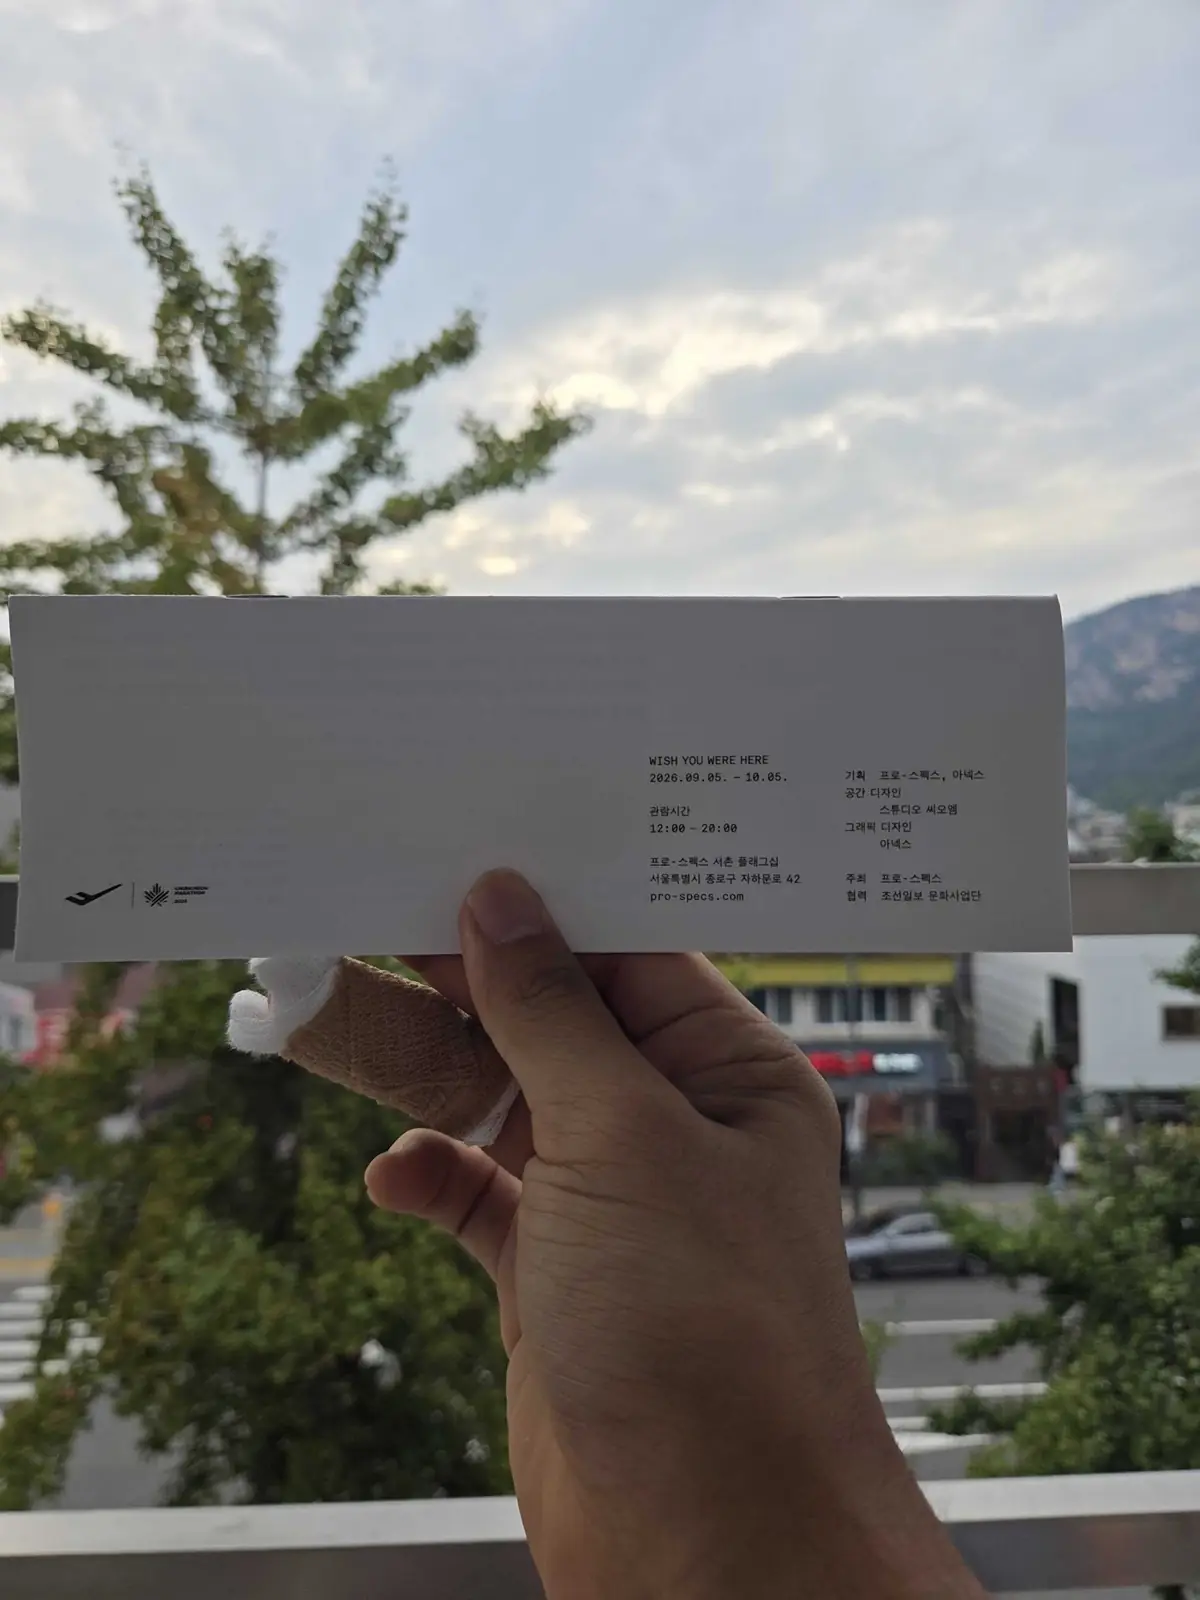
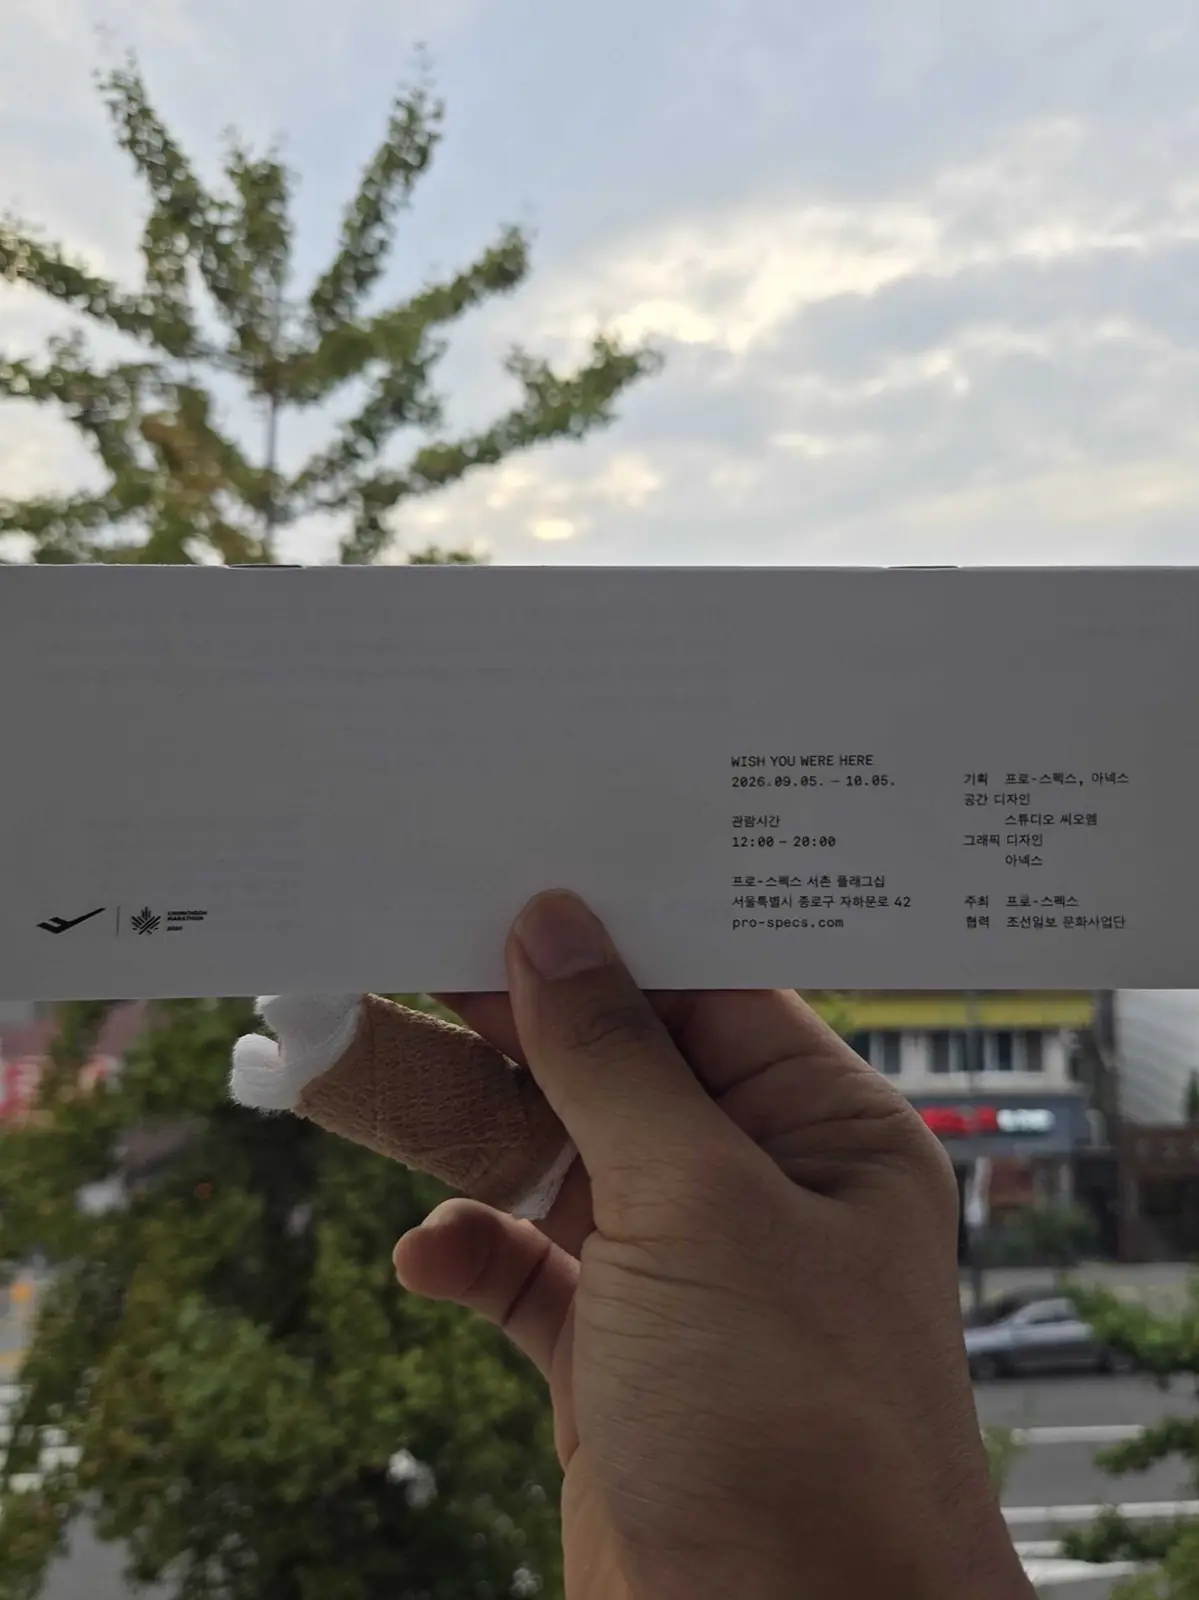
fix(prospecs-preview): 초대 섹션 사진에서 안내지가 가운데 오도록 화면용 사본 재크롭 [skip ci]
안내지 중심이 사진 중심보다 약 150px(원본 기준) 왼쪽이라 좌우가 어긋나 보였음.
원본은 두고 3:4를 유지한 채 양쪽이 같은 폭으로 넘어가게 다시 자름.

diff --git a/prospecs-seochon-preview/direction/DESIGN.md b/prospecs-seochon-preview/direction/DESIGN.md
@@ -233,3 +233,7 @@ Codex 리뷰의 "방문 전환이 늦고 약함(높음)"에 대응. 사용자가
 - 같은 디자이너 리뷰어에게 재채점을 받았다. 오독 정정과 2층 연속 스크린샷(60% 간격)을 함께 줬다. 결과: 전체 7.3 → 7.7, 2층 6.6 → 7.1, "2층이 약하다: 대체로 해결". 리뷰어가 스크린샷으로 직접 확인하고 모바일 크롭 회귀 지적을 기각했다. 남은 가장 큰 감점은 두 리뷰 공통으로 PLATE 04 사진이었다.
 - PLATE 04 결정: 두 리뷰의 크기 제안(220px / 340–380px)이 상반돼, 사진을 빼는 제3안을 사용자가 택했다. 명패 사진(1000023996)의 그림자 결함을 없애고, 명패 원문을 인용 도판으로 크게 보여준다(데스크톱 22–31px, 모바일 19px). 메타는 "KWON EUNJU · 전시장 명패 원문". 화면용 사본 `assets/display/1000023996.webp`는 삭제했다(원본은 planning/photos에 보관). 회전·크롭·필터 규칙(`.plate-card`, `.plate-person`)도 제거했다.
 - 남은 보류: 두 쉬어가는 문장의 모양 구분, PLATE 02 본문 보강, PLATE 01→02 간격 재확인, 보조 글자 대비, 문구 톤 반복.
+
+### 초대 섹션 사진(1000023999) 안내지 중심 맞춤
+- 사용자 피드백: 사진 속 안내지가 좌우 대칭이 안 맞는다. 원본에서 안내지는 가로 3,000px 중 약 24–2,670px에 있어 중심이 사진 중심보다 약 150px 왼쪽이었다.
+- 원본은 그대로 두고 화면용 사본만 다시 잘랐다. x 84–2,608, y 300–3,666(2,524×3,366, 3:4 유지) → 1,200×1,600 → WebP q72, 46KB. 안내지 폭에 딱 맞추면 양쪽에 가는 틈만 남아 실수처럼 보이므로, 양쪽이 똑같이 약 60px(원본 기준)씩 화면 밖으로 넘어가게 했다. 왼쪽 로고와 오른쪽 글자 블록은 모두 남는다.
